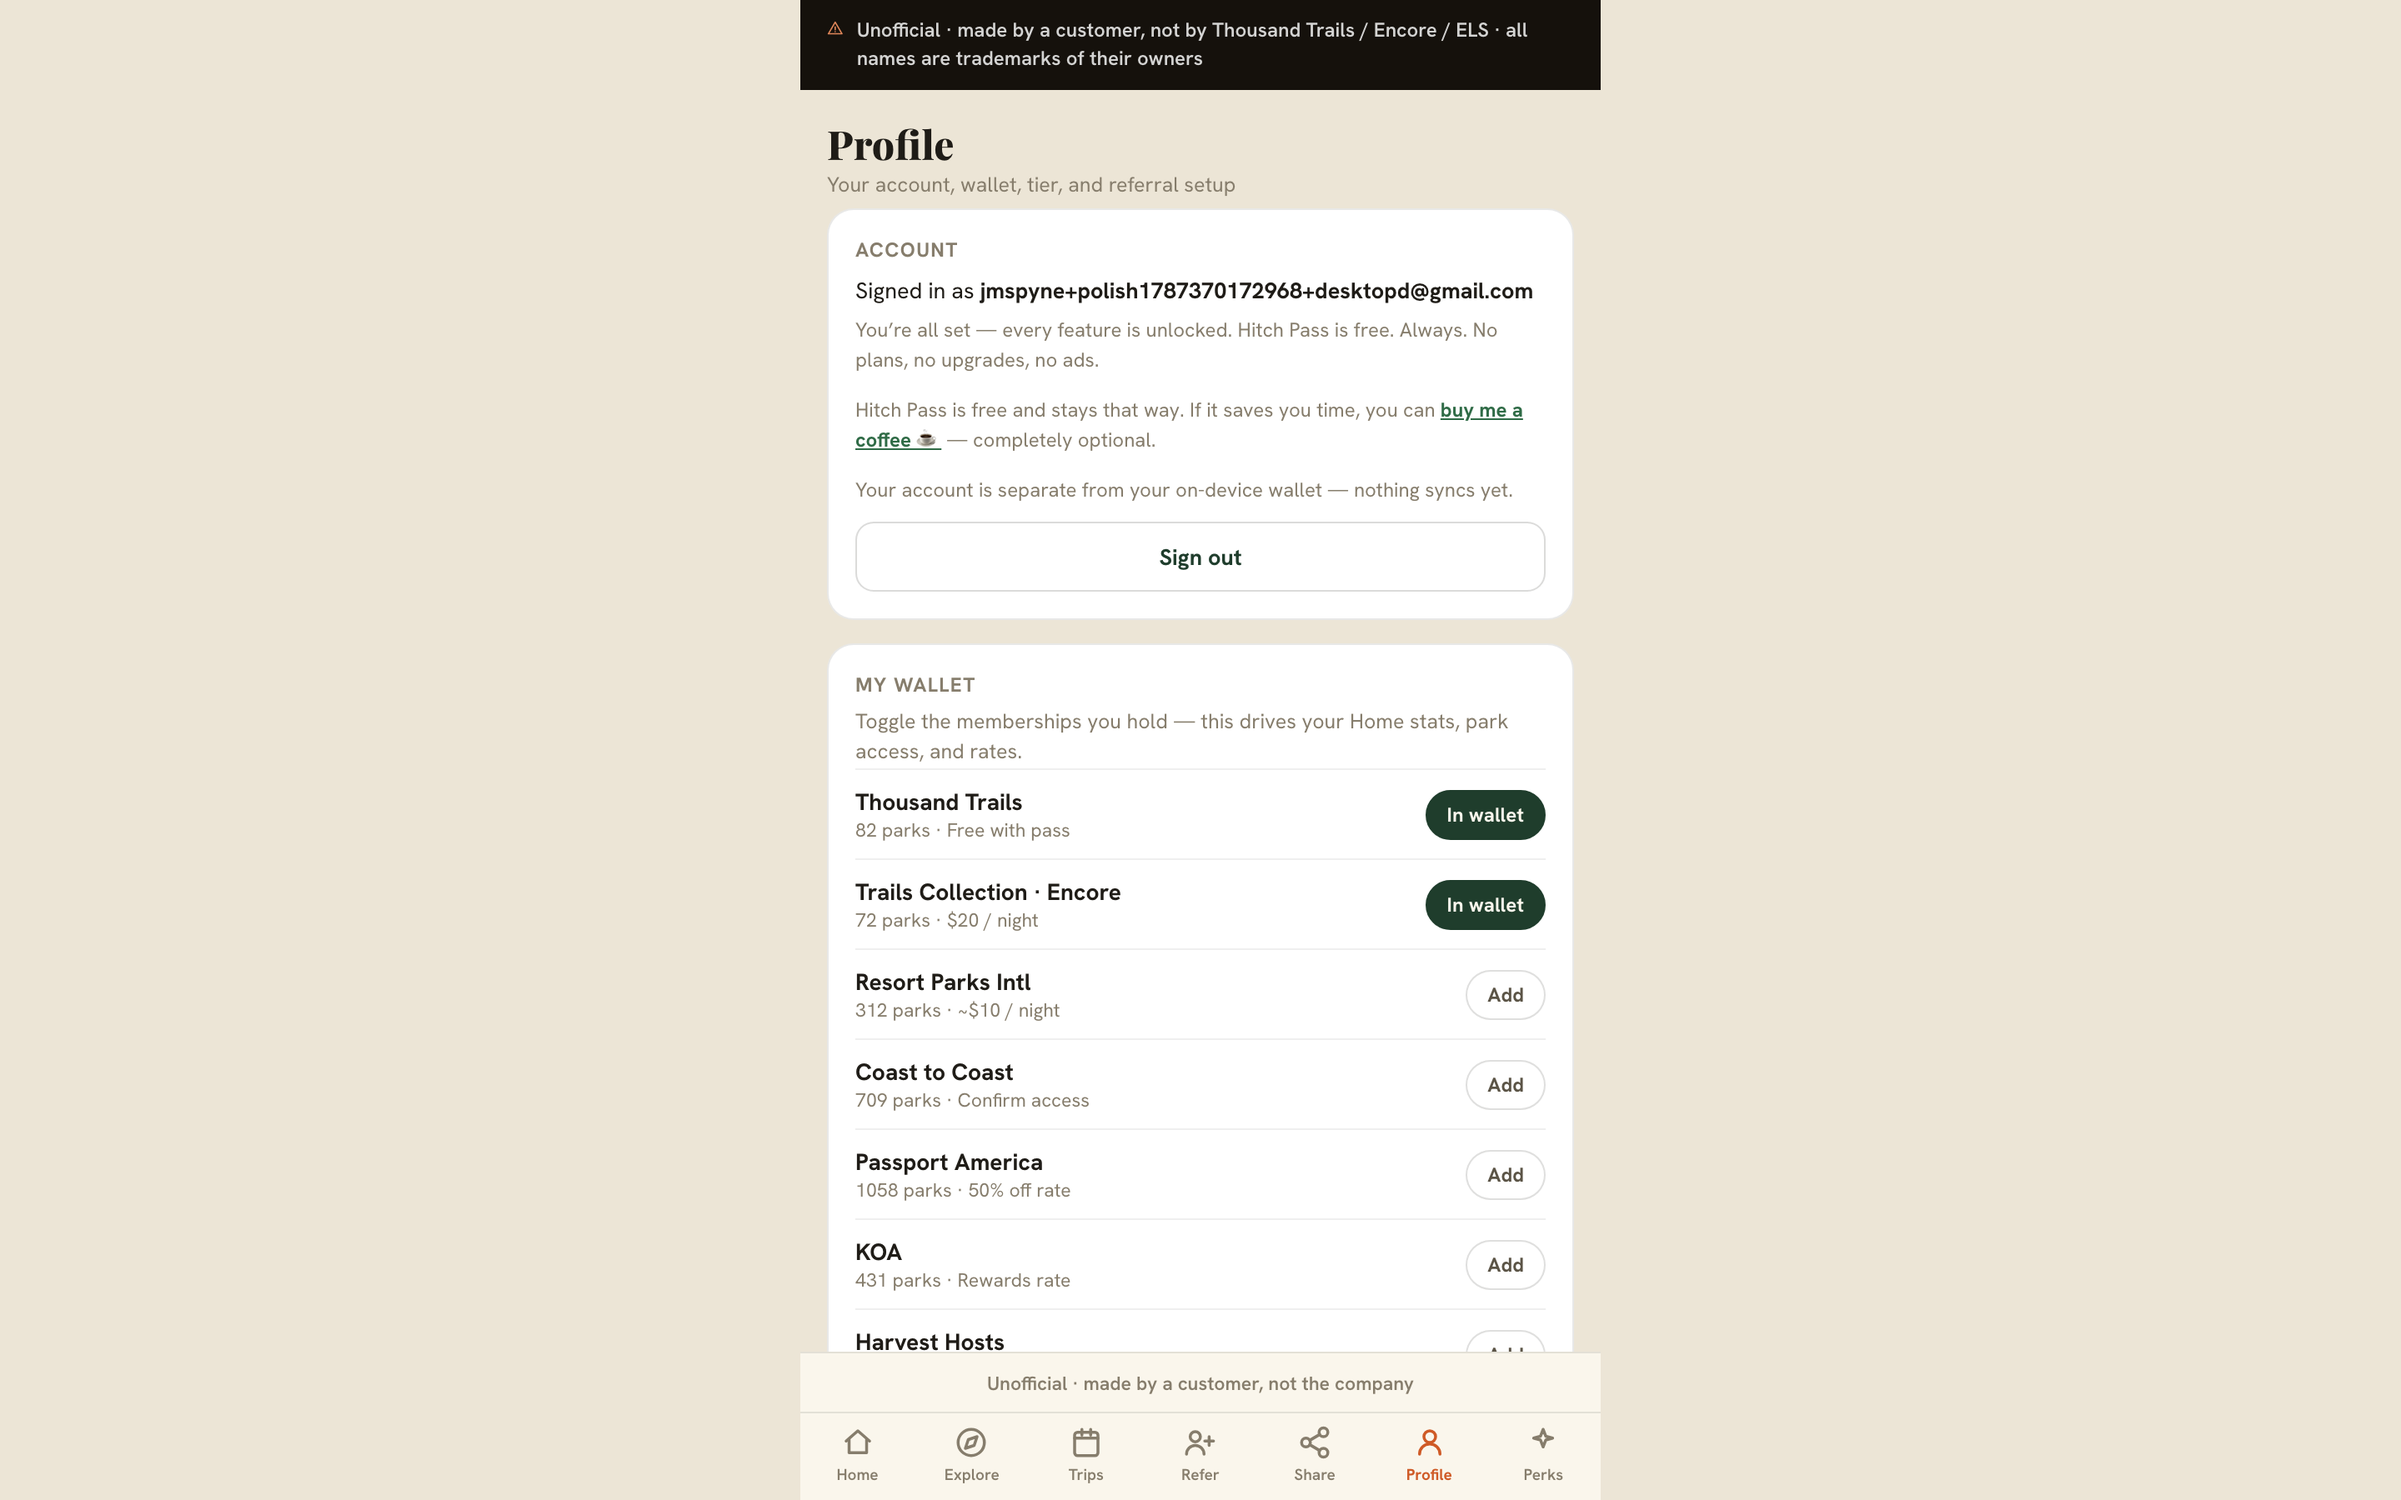
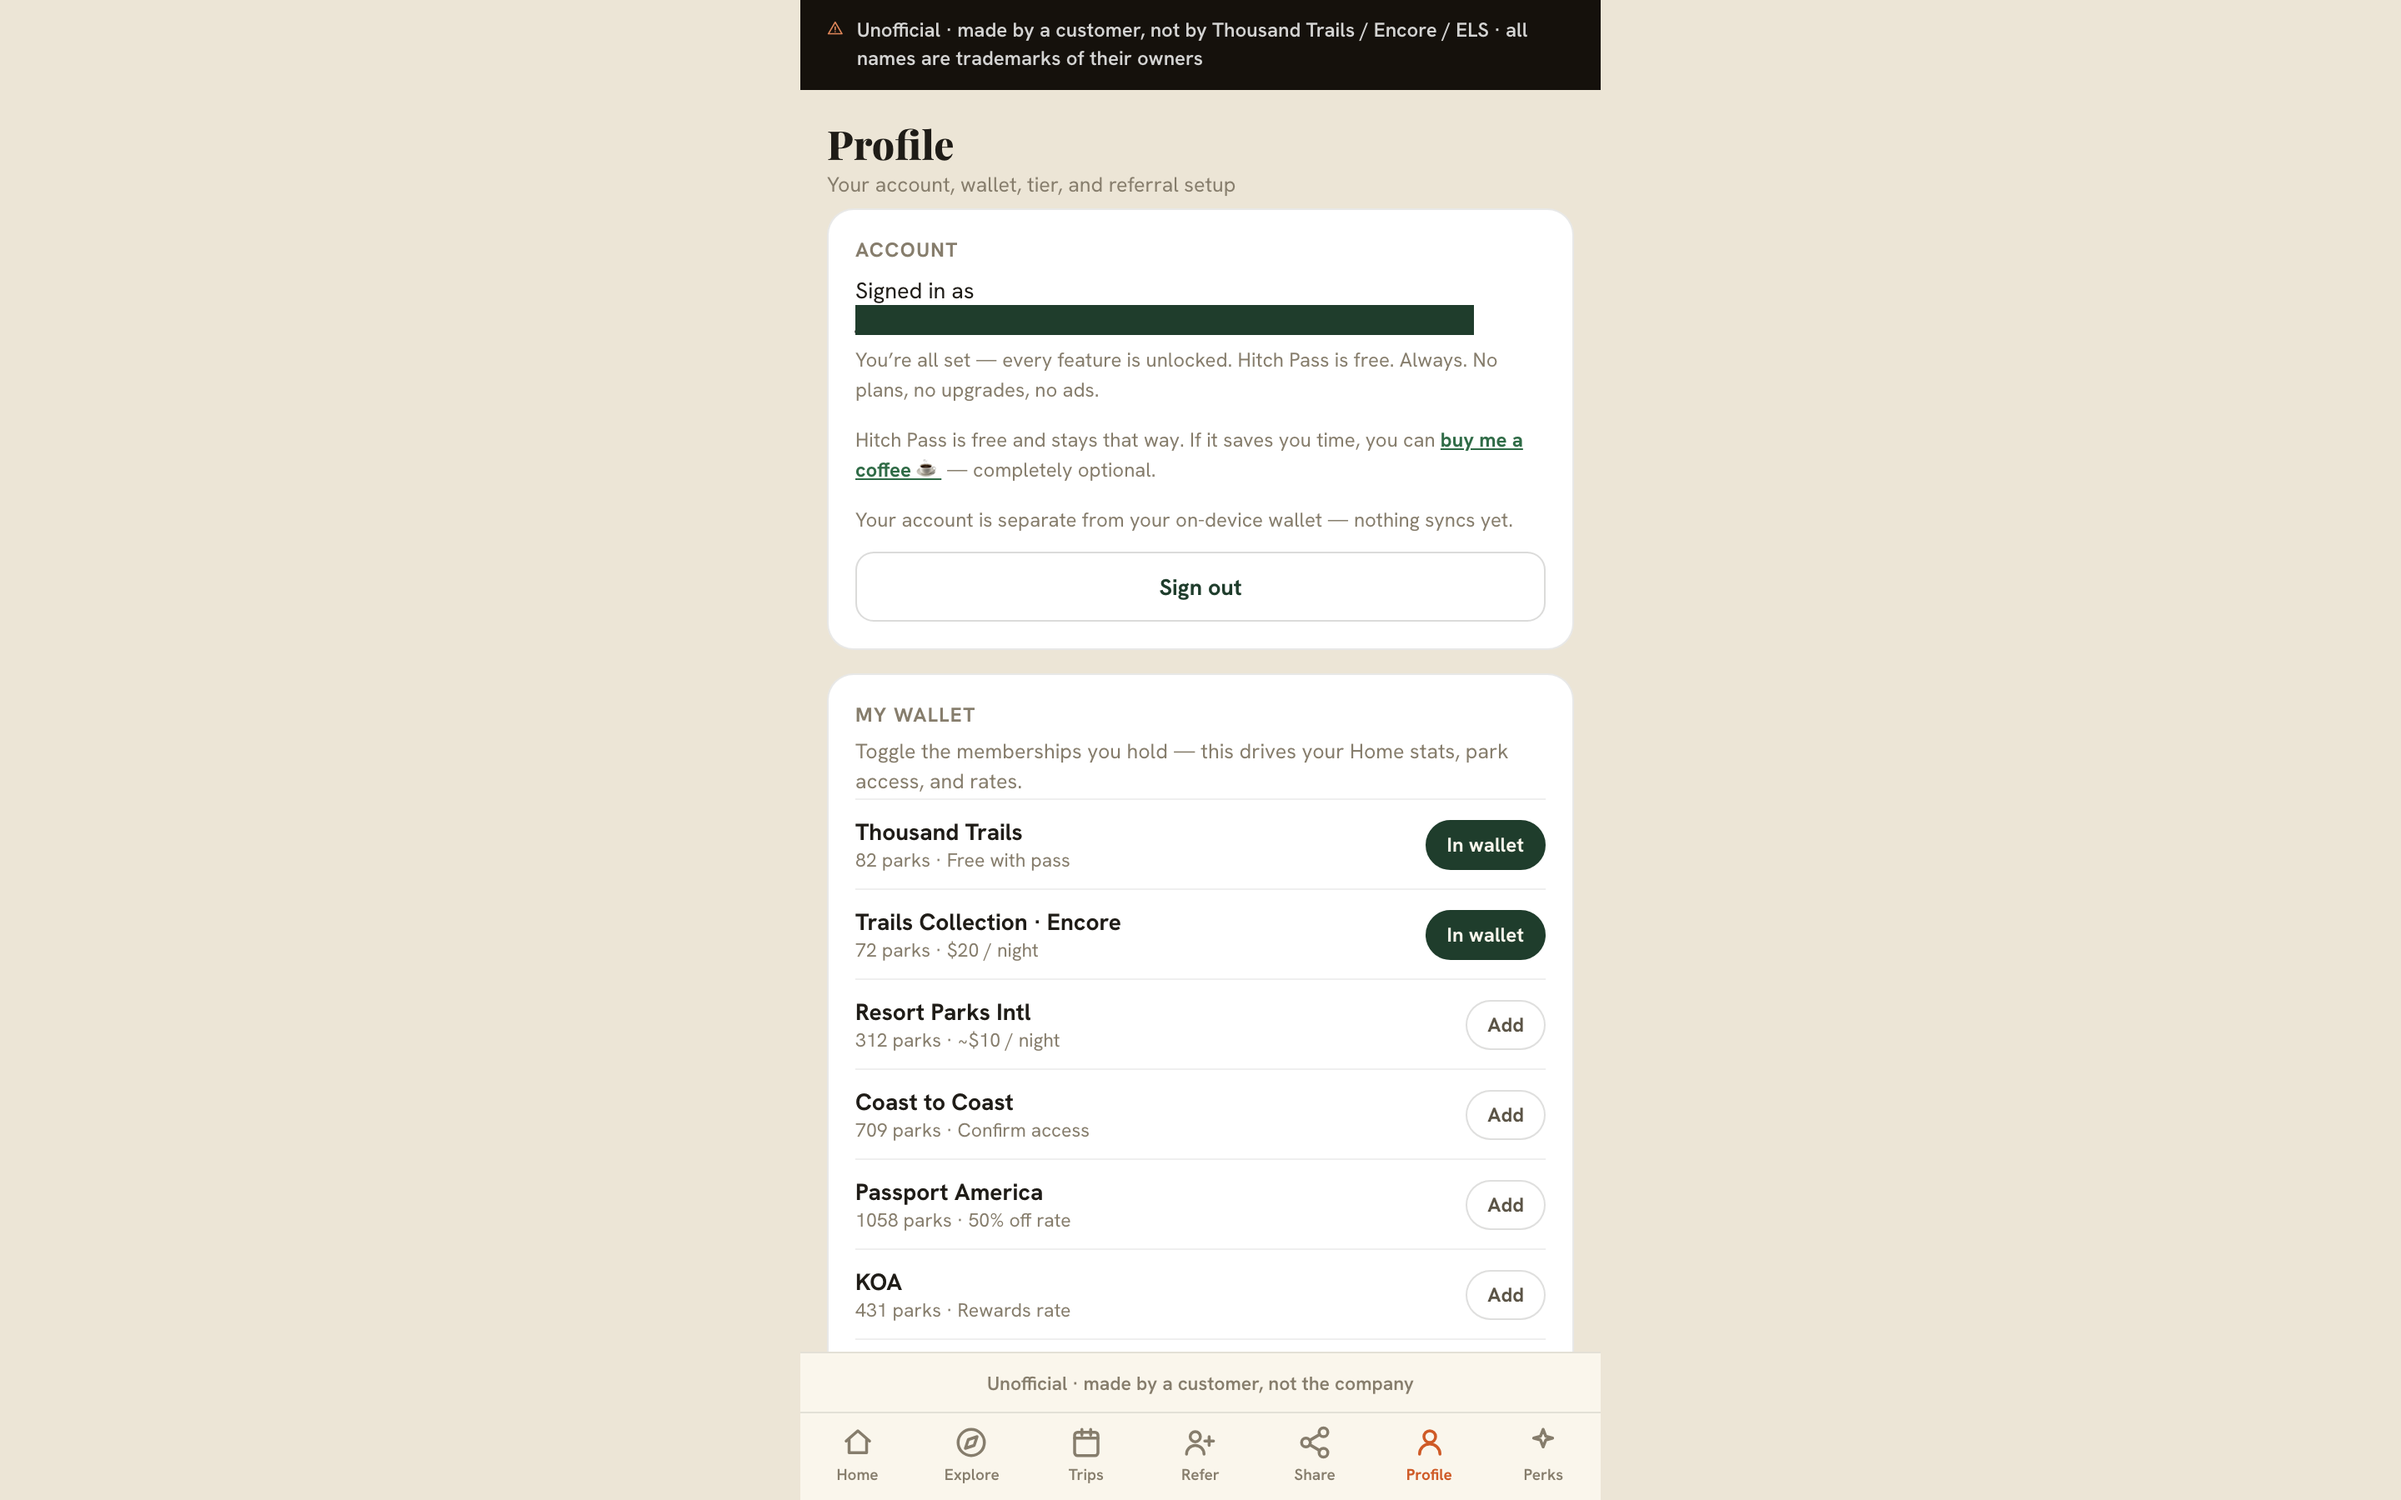
security: redact live account email from screenshots, drop misleading dupes
Security-reviewer pass on this branch's diff (adversarial review, fresh
context) caught two evidence-hygiene defects:

1. tab-profile.png (before/after, both viewports) rendered the "Signed
   in as <email>" line with a real, plus-tagged Gmail address from a
   live Supabase-authenticated test account. This repo is public with
   no build step - merging would have made those images fetchable from
   hitchpass.vercel.app in addition to GitHub. Re-shot all four with the
   email element masked via Playwright's screenshot mask option rather
   than deleted outright, so the surrounding layout stays as evidence.

2. membership-detail.png (all four) was byte-identical to the Home
   screen - the stat-tile click it was meant to document does nothing
   (already flagged as MEDIUM-2 in the spec), so the file never
   captured what its name claimed. Removed rather than relabeled.

Also added .vercelignore excluding design/ as defense in depth, so the
screenshot/spec directory is never servable from production regardless
of what ends up in it.

Verified: masked bar fully covers the address in all four re-shot
files; grepped index.html to confirm the live user's email renders in
exactly one place in the entire app (the now-fixed spot) - no other
captured screen can contain it.

diff --git a/design/POLISH_SPEC.md b/design/POLISH_SPEC.md
@@ -310,3 +310,32 @@ per instruction so both get patched.
 
 Branch: `polish/hitch-pass-2026-08-21` (worktree `HitchPassApp-polish`). Not merged, not deployed —
 see close-out report for why.
+
+---
+
+## Security-review remediation (post-PASS/PASS-conditional round)
+
+An adversarial security-reviewer pass on this branch's diff caught two evidence-hygiene defects
+that the initial commit missed:
+
+1. **Live account identifier published to a public repo.** `tab-profile.png` (before/after, both
+   viewports) rendered the "Signed in as" line with a real, plus-tagged Gmail address from a live
+   Supabase-authenticated test account. This repo is public and has no build step (`vercel.json` is
+   crons + one rewrite, static root serve) — merging would have made those PNGs directly fetchable
+   from `hitchpass.vercel.app` as well as GitHub. **Fixed:** re-shot all four `tab-profile.png`
+   files with the email element masked via Playwright's screenshot `mask` option (solid pine-green
+   bar over the address) rather than deleted outright, so the surrounding layout stays intact as
+   evidence.
+2. **`membership-detail.png` didn't depict what its filename claimed.** All four copies (before/
+   after × mobile/desktop) were byte-identical to the Home screen — the stat-tile click documented
+   in MEDIUM-2 does nothing, so there is no distinct membership-detail view to capture. Filename
+   implied evidence that didn't exist. **Fixed:** removed rather than relabeled — MEDIUM-2 above
+   already documents the underlying non-interactivity finding; a placeholder screenshot of Home
+   under a misleading name added no evidence value.
+3. **Added `.vercelignore` excluding `design/`** as defense in depth — the screenshot/spec
+   directory should never be served from the production domain regardless of what's in it,
+   independent of fix #1.
+
+Both fixes verified visually (masked bar fully covers the address in all four re-shot files; no
+other PNG in the set was found to contain an account identifier on inspection during this remediation).
+Pushed as a follow-up commit on this branch.
